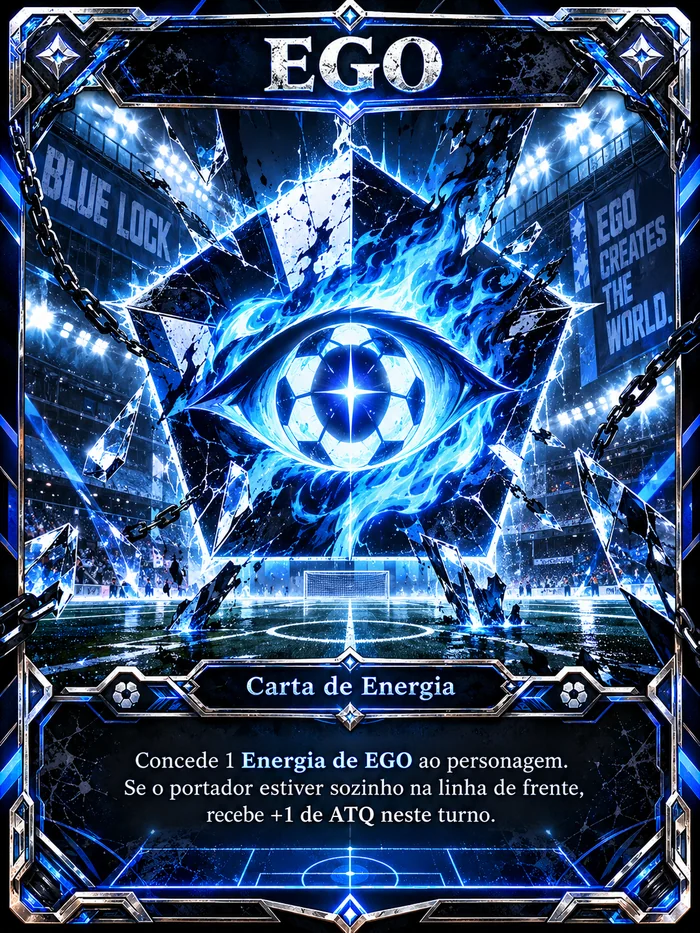
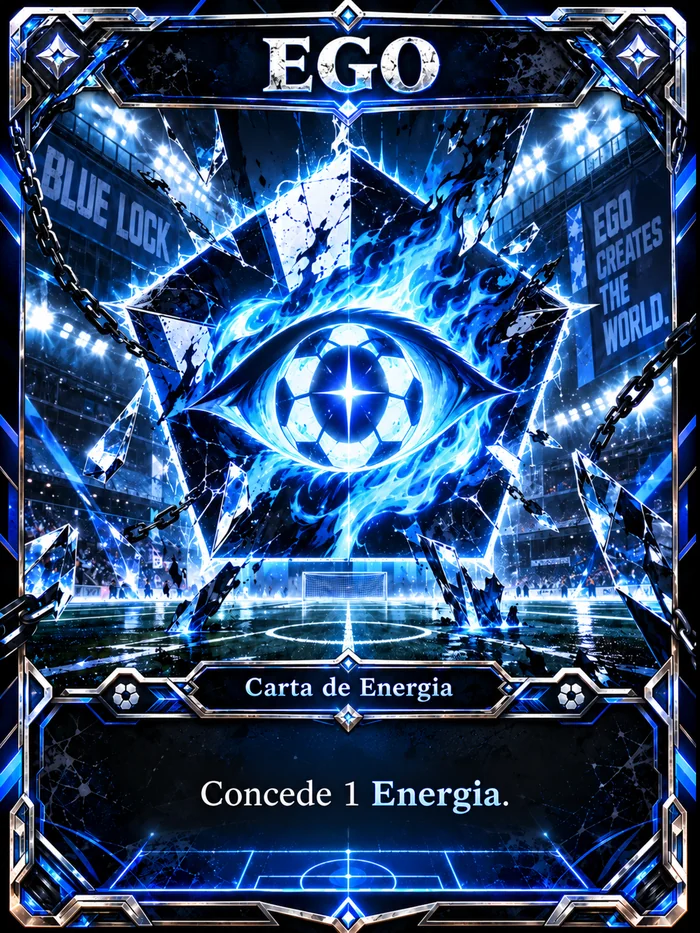
Nova arte da energia Ego; teste garante que LR/EX (Imu) não saem de booster

diff --git a/src/data/cards.test.ts b/src/data/cards.test.ts
@@ -1,7 +1,8 @@
 import { describe, expect, it } from 'vitest'
 import { ENERGY_TYPES, RARITY, maxMultiplier } from '../engine/cards'
 import { CATALOG, CHARACTERS, ENERGIES } from './cards'
-import { SLOTS } from './packs'
+import { openPack } from '../engine/packs'
+import { PACKS, SLOTS } from './packs'
 
 describe('catálogo', () => {
   it('tem ids únicos', () => {
@@ -36,6 +37,15 @@ describe('catálogo', () => {
       if (s.kind === 'character') expect(Object.keys(s.odds)).not.toContain('LR')
       if (s.kind === 'character') expect(Object.keys(s.odds)).not.toContain('EX')
     }
+  })
+
+  it('Imu EX e demais LR/EX nunca saem do booster, mesmo no do universo delas', () => {
+    let seed = 1
+    const rng = () => ((seed = (seed * 16807) % 2147483647) - 1) / 2147483646
+    for (const u of ['one-piece', 'blue-lock', 'multiverse'] as const)
+      for (let i = 0; i < 2000; i++)
+        for (const c of openPack(PACKS[u], CATALOG, rng, i % 20 === 0 ? 'UR' : undefined))
+          expect(c.type === 'character' && ['LR', 'EX'].includes(c.rarity), c.id).toBe(false)
   })
 
   it('toda arte referenciada existe em public/', () => {

diff --git a/docs/DECISIONS.md b/docs/DECISIONS.md
@@ -138,6 +138,6 @@ Ao alterar regras, sempre atualizar esta página e `docs/RULEBOOK.md`, registran
 
 ## Energias Ego e Haki — 12/10/2026
 - Novas energias específicas: **Ego** (Blue Lock) e **Haki** (One Piece), com cartas `energy-ego` e `energy-haki` (arte do criador).
-- O texto das artes traz efeitos extras (Ego: +1 ATQ se o portador estiver sozinho na linha de frente; Haki: conversão em Kenbunshoku/Busoshoku/Haoshoku). **Não estão no RULEBOOK nem no motor**: hoje as duas funcionam como as demais energias específicas. Pendente de decisão.
+- Ego: arte refeita pelo criador, texto só "Concede 1 Energia" (sem efeito extra). Haki mantém a arte com conversão em Kenbunshoku/Busoshoku/Haoshoku, decidido pelo criador; o efeito **não está no RULEBOOK nem no motor** — hoje funciona como as demais energias específicas.
 - Kaiser, Imu e Loki seguem com custos só genéricos até decidir se parte vira Ego/Haki.
 - Efeito colateral: o booster Multiverso passa a poder sortear Ego/Haki entre as energias locais.
